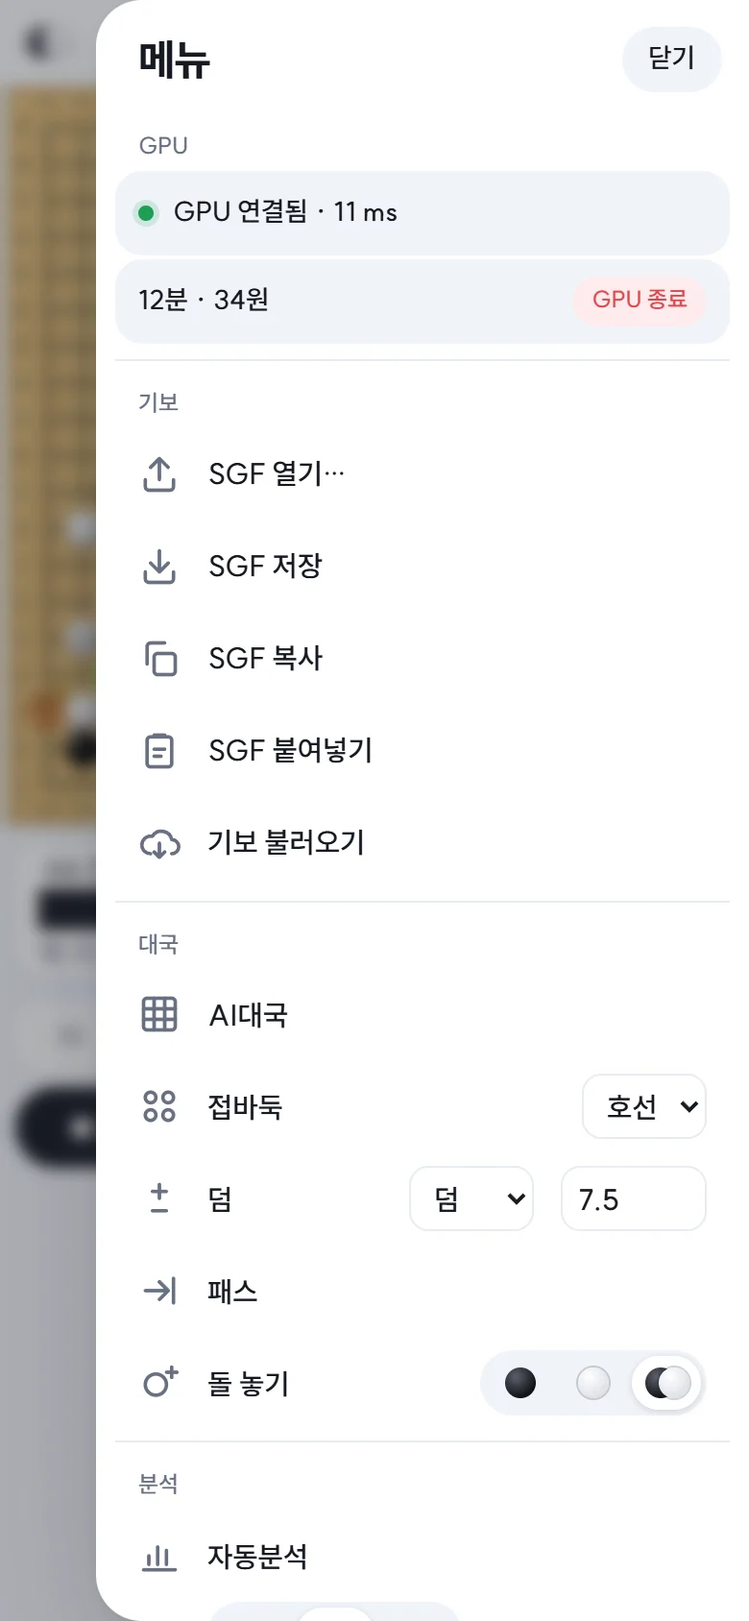
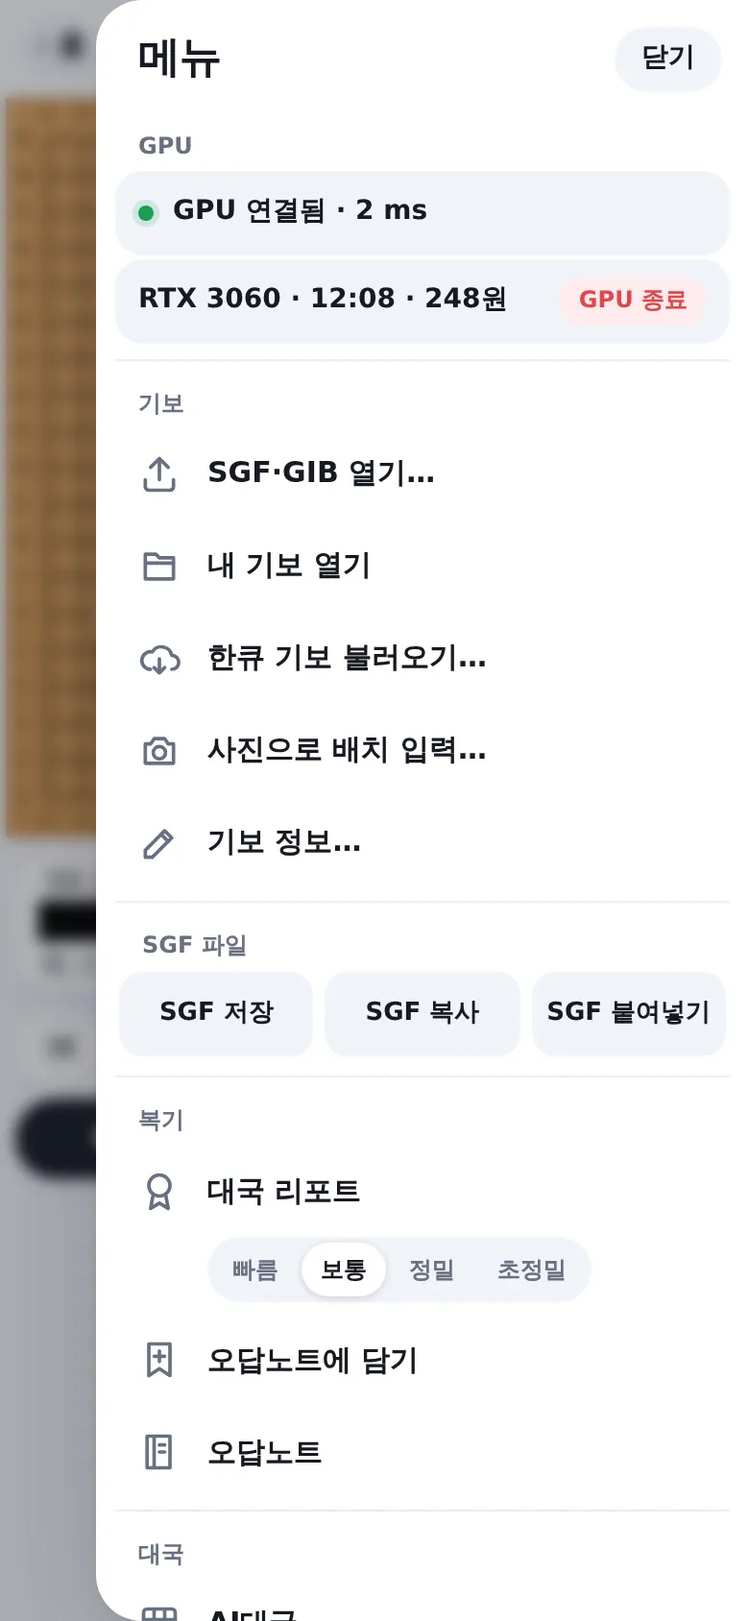
분석 화면 버튼·메뉴 정리 반영 + 가이드 설명·그림 갱신
Claude-Session: https://claude.ai/code/session_01Y47eBxEyYJLCGG7gzNsDrD

diff --git a/analysis.html b/analysis.html
@@ -152,6 +152,39 @@ details.menu .items { position: absolute; left: 0; top: calc(100% + 6px); z-inde
   box-shadow: 0 2px 6px rgba(23, 26, 34, .06), 0 20px 40px -12px rgba(23, 26, 34, .25); }
 details.menu .items button { background: transparent; text-align: left; border-radius: 10px; justify-content: flex-start; }
 details.menu .items button:hover { background: var(--soft); }
+/* 버튼 정리(2026-10-05): 위 바 = 기보 ▾ · 바둑판 ▾ · 보기 ▾ 드롭다운, 아래 바 = 분석 | 이동 | 패스·계가·편집 ▾ */
+details.menu > summary::after { content: ""; width: 7px; height: 7px; margin: -3px 0 0 8px; border: solid currentColor; border-width: 0 1.8px 1.8px 0; transform: rotate(45deg); opacity: .55; }
+details.menu.up > summary::after { transform: rotate(-135deg); margin-top: 4px; }
+details.menu .items { min-width: 220px; }
+details.menu .items hr { border: 0; border-top: 1px solid var(--line); margin: 4px 8px; }
+details.menu .items button { min-height: 38px; padding: 0 12px; font-weight: 600; }
+details.menu .items button[hidden] { display: none; }
+details.menu .items button.pink { color: var(--bad); }
+details.menu .items button.on { background: var(--cyan-soft); color: var(--blue-deep); }
+details.menu .items label.check { display: flex; align-items: center; gap: 10px; min-height: 38px; padding: 0 12px; border-radius: 10px; color: var(--ink); font-weight: 600; cursor: pointer; }
+details.menu .items label.check:hover { background: var(--soft); }
+details.menu .items label.check > select, details.menu .items label.check > input:not([type=checkbox]) { margin-left: auto; }
+details.menu .items label.check > select + input { margin-left: 0; }
+details.menu .items .menu-text, details.menu .items #placeRow > span { display: inline; }
+details.menu .items #placeRow { display: flex; gap: 10px; min-height: 40px; padding: 0 12px; font-weight: 600; }
+details.menu .items #placeRow .stone-seg { margin-left: auto; }
+#boardMenu .items { min-width: 270px; }
+@media (max-width: 1500px) { .menubar .brand span:last-child { display: none; } }   /* 노트북 폭에서도 위 바 한 줄(앱 아이콘은 남김) */
+@media (orientation: landscape) and (max-width: 1300px) { .menubar #vps { display: none; } }   /* 1280 노트북: visits/s는 빼서 한 줄 */
+details.menu.up .items { top: auto; bottom: calc(100% + 6px); left: auto; right: 0; }
+.toolbar .nav { display: inline-flex; align-items: center; gap: 4px; }
+.toolbar button.mv { display: inline-grid; place-items: center; }
+.toolbar button.mv svg { width: 18px; height: 18px; fill: none; stroke: currentColor; stroke-width: 2.2; stroke-linecap: round; stroke-linejoin: round; }
+.toolbar details.menu { display: inline-block; vertical-align: middle; }   /* 넓은 화면의 아래 바는 줄글 흐름(block)이라 details가 새 줄로 내려가던 것 */
+.toolbar details.menu > summary { font-size: 13px; padding: 5px 12px; }
+/* 낮은 가로 화면(폰 가로): 폰 세로처럼 나머지 도구는 ☰ 메뉴 시트로(placeMenuItems) — 두 바가 한 줄씩만 차지해 바둑판이 커짐 */
+@media (orientation: landscape) and (max-height: 520px) {
+  .menubar { flex-wrap: nowrap; padding: 5px 10px; gap: 6px; }
+  #fileMenu, #boardMenu, #viewMenu, #editMenu { display: none; }
+  .toolbar { flex-wrap: nowrap; padding-top: 5px; padding-bottom: calc(5px + env(safe-area-inset-bottom)); }
+  .toolbar #menuOpen { display: inline-flex; align-items: center; margin-left: auto; }
+}
+}
 .toolbar { display: flex; gap: 6px; padding: 8px 8px calc(8px + env(safe-area-inset-bottom)); border-top: 1px solid rgba(23, 26, 34, .06);
   flex-wrap: wrap; align-items: center; }
 .toolbar > * { flex: none; }
@@ -185,6 +218,17 @@ dialog.sheet[open] { display: flex; flex-direction: column; animation: slideIn .
 #menuBody section > ::before { content: ""; flex: none; width: 22px; height: 22px; background: var(--muted);
   -webkit-mask: var(--i) center / 22px no-repeat; mask: var(--i) center / 22px no-repeat; }
 #menuBody section > button.on { background: var(--cyan-soft); color: var(--blue-deep); }
+/* 보기: 켜고 끄는 것들은 두 줄 칩으로(목록이 길어지지 않게) */
+#menuBody section.chips { display: grid; grid-template-columns: 1fr 1fr; gap: 6px; padding: 6px 2px 10px; }
+#menuBody section.chips > h3 { grid-column: 1 / -1; margin-bottom: 0; }
+#menuBody section.chips > label, #menuBody section.chips > button { min-height: 44px; gap: 8px; padding: 0 10px; font-size: 14px; background: var(--soft); border-radius: 12px; }
+#menuBody section.chips > label > input { display: none; }
+#menuBody section.chips > label:has(input:checked), #menuBody section.chips > button.on { background: var(--cyan-soft); color: var(--blue-deep); box-shadow: inset 0 0 0 1.5px rgba(22, 193, 220, .5); }
+#menuBody section.chips > label:has(input:checked)::before, #menuBody section.chips > button.on::before { background: var(--blue); }
+#menuBody section.chips > ::before { width: 18px; height: 18px; }
+#menuBody section.chips.three { grid-template-columns: repeat(3, minmax(0, 1fr)); }
+#menuBody section.chips.three > button { justify-content: center; padding: 0 4px; font-size: 13px; white-space: nowrap; }
+#menuBody section.chips.three > button::before { display: none; }
 #menuBody section > button.on::before { background: var(--blue); }
 #menuBody section > button.pink { color: var(--bad); }
 #menuBody section > button.pink::before { background: var(--bad); }
@@ -469,16 +513,20 @@ button.primary:hover { background: var(--blue-deep); }
     padding: 8px 8px calc(8px + env(safe-area-inset-bottom)); border-top: 0; background: transparent; backdrop-filter: none; -webkit-backdrop-filter: none; }
   .toolbar button, .toolbar input { min-height: 42px; padding: 2px; width: 100%; }
   .toolbar button:not(.on):not(.pink):not(#analyze) { background: var(--panel); box-shadow: 0 1px 2px rgba(23, 26, 34, .06); }
-  .toolbar .sep, #fileMenu { display: none; }
+  .toolbar .sep, #fileMenu, #boardMenu, #viewMenu, #editMenu { display: none; }
+  .toolbar .nav { display: contents; }
   /* rows: moves | analysis, move number, menu (everything else is in the menu sheet) */
   #clocks { order: 0; grid-column: 1 / -1; justify-content: center; }
   #scoreBox { top: auto; left: 12px; right: 12px; width: auto; bottom: calc(12px + env(safe-area-inset-bottom)); }
-  #first { order: 1; } #back10 { order: 2; } #back { order: 3; } #fwd { order: 4; } #fwd10 { order: 5; } #last { order: 6; }
+  #first { order: 1; } #back10 { order: 2; }
   /* 12 columns: six move buttons of 2; then 분석 4, move number 2, 수순 이동 3 (its label no longer overflows), 메뉴 3 */
-  #first, #back10, #back, #fwd, #fwd10, #last { grid-column: span 2; }
-  #analyze { grid-column: span 4; } #moveNo { grid-column: span 2; width: 100%; }   /* its landscape 62px was wider than the cell: it ran under 수순 이동 */ #goMove, #menuOpen { grid-column: span 3; }
-  #analyze { order: 7; } #moveNo { order: 8; } #goMove { order: 9; }
-  #menuOpen { display: block; order: 10; }
+  /* 14 columns: 처음 · 10수 · 이전 · 수 번호 · 다음 · 10수 · 끝 (2씩), then 분석 6 · 자동분석 4 · 메뉴 4. 수순 이동 버튼은 없앰(수 번호에서 Enter) */
+  .toolbar { grid-template-columns: repeat(14, minmax(0, 1fr)); }
+  #first, #back10, #back, #moveNo, #fwd, #fwd10, #last { grid-column: span 2; }
+  #moveNo { width: 100%; text-align: center; }
+  #back { order: 3; } #moveNo { order: 4; } #fwd { order: 5; } #fwd10 { order: 6; } #last { order: 7; }
+  #analyze { grid-column: span 6; order: 8; } #autoAnalyze { grid-column: span 4; order: 9; }
+  #menuOpen { display: block; grid-column: span 4; order: 10; }
   .toolbar .error { order: 11; grid-column: 1 / -1; }
   #quizBar { grid-column: 1 / -1; }
   #quizBar button { width: auto; padding: 2px 16px; }
@@ -548,40 +596,56 @@ button.primary:hover { background: var(--blue-deep); }
   <a class="home-back" id="homeBack" href="./" hidden title="처음 화면으로">‹ 홈</a>
   <span class="brand"><span class="mark"></span><span>KataGo Cloud</span></span>
   <details class="menu" id="fileMenu">
-    <summary>파일</summary>
+    <summary>기보</summary>
     <div class="items">
       <button id="openSgf">SGF·GIB 열기…</button>
+      <button id="openMine" hidden>내 기보 열기</button>
+      <button id="kifuOpen">한큐 기보 불러오기…</button>
+      <button id="photoKifu">사진으로 배치 입력…</button>
+      <hr>
       <button id="saveSgf">SGF 저장</button>
       <button id="copySgf">SGF 복사</button>
       <button id="pasteSgf">SGF 붙여넣기</button>
-      <button id="photoKifu">사진으로 배치 입력…</button>
       <button id="editInfo">기보 정보…</button>
-      <button id="openMine" hidden>내 기보 열기</button>
+      <hr>
       <button id="addNote" hidden>오답노트에 담기</button>
       <button id="openNotes" hidden>오답노트</button>
+      <hr>
       <button id="aboutOss">오픈소스 고지</button>
     </div>
   </details>
-  <button id="saveMine" hidden title="이 기보를 분석값과 함께 내 계정에 저장">내 기보 저장</button>
+  <details class="menu" id="boardMenu">
+    <summary>바둑판</summary>
+    <div class="items">
+      <label class="check" id="sizeLabel"><span class="menu-text">바둑판</span><select id="boardSize" aria-label="바둑판 크기"><option value="19">19줄</option><option value="13">13줄</option><option value="9">9줄</option></select></label>
+      <label class="check" id="handicapLabel">접바둑 <select id="handicap"><option value="0">호선</option><option value="1">정선</option><option value="2">2점</option><option value="3">3점</option><option value="4">4점</option><option value="5">5점</option><option value="6">6점</option><option value="7">7점</option><option value="8">8점</option><option value="9">9점</option></select></label>
+      <label class="check" id="komiLabel"><span class="menu-text">덤</span><select id="komiSign" aria-label="덤 방향"><option value="1">덤</option><option value="-1">역덤</option></select> <input type="number" id="komi" value="6.5" step="0.5" min="0" max="150" aria-label="덤 집 수"></label>
+      <div id="placeRow"><span>돌 놓기</span>
+        <div class="stone-seg" id="placeSeg" role="group" aria-label="놓을 돌">
+          <button data-c="B" title="흑돌만 놓기" aria-pressed="false"><i class="b"></i></button>
+          <button data-c="W" title="백돌만 놓기" aria-pressed="false"><i class="w"></i></button>
+          <button data-c="" title="흑백 번갈아 놓기" aria-pressed="true" class="on"><i class="bw"></i></button>
+        </div>
+  </div>
+    </div>
+  </details>
+  <details class="menu" id="viewMenu">
+    <summary>보기</summary>
+    <div class="items">
+      <label class="check" id="candsLabel"><input type="checkbox" id="showCands" checked> 후보수보기</label>
+      <label class="check" id="ownerLabel"><input type="checkbox" id="showOwner"> 형세</label>
+      <label class="check" id="hideLabel" title="승률·후보수·그래프·형세를 모두 가립니다. 분석값은 지워지지 않습니다"><input type="checkbox" id="hideEval"> 승률 가리기</label>
+      <label class="check" id="barLabel"><input type="checkbox" id="showBar" checked> 승률 막대</label>
+      <label class="check" id="graphLabel"><input type="checkbox" id="showGraph"> 승률 그래프</label>
+      <hr>
+      <button id="nums">수순</button>
+      <button id="coords">좌표</button>
+    </div>
+  </details>
   <button id="newGame">AI대국</button>
-  <button id="kifuOpen">기보 불러오기</button>
   <button id="strengthOpen">대국 리포트</button>
   <div class="lvl" id="strengthLevel" role="group" aria-label="대국 리포트 세기"><button data-l="fast">빠름</button><button data-l="normal">보통</button><button data-l="precise">정밀</button><button data-l="ultra" title="한 수 5000 visits — 정밀보다 약 5배 오래 걸립니다">초정밀</button></div>
-  <label class="check" id="sizeLabel"><span class="menu-text">바둑판</span><select id="boardSize" aria-label="바둑판 크기"><option value="19">19줄</option><option value="13">13줄</option><option value="9">9줄</option></select></label>
-  <label class="check" id="handicapLabel">접바둑 <select id="handicap"><option value="0">호선</option><option value="1">정선</option><option value="2">2점</option><option value="3">3점</option><option value="4">4점</option><option value="5">5점</option><option value="6">6점</option><option value="7">7점</option><option value="8">8점</option><option value="9">9점</option></select></label>
-  <label class="check" id="komiLabel"><span class="menu-text">덤</span><select id="komiSign" aria-label="덤 방향"><option value="1">덤</option><option value="-1">역덤</option></select> <input type="number" id="komi" value="6.5" step="0.5" min="0" max="150" aria-label="덤 집 수"></label>
-  <label class="check" id="ownerLabel"><input type="checkbox" id="showOwner"> 형세</label>
-  <label class="check" id="candsLabel"><input type="checkbox" id="showCands" checked> 후보수보기</label>
-  <label class="check" id="hideLabel" title="승률·후보수·그래프·형세를 모두 가립니다. 분석값은 지워지지 않습니다"><input type="checkbox" id="hideEval"> 승률 가리기</label>
-  <div id="placeRow"><span>돌 놓기</span>
-    <div class="stone-seg" id="placeSeg" role="group" aria-label="놓을 돌">
-      <button data-c="B" title="흑돌만 놓기" aria-pressed="false"><i class="b"></i></button>
-      <button data-c="W" title="백돌만 놓기" aria-pressed="false"><i class="w"></i></button>
-      <button data-c="" title="흑백 번갈아 놓기" aria-pressed="true" class="on"><i class="bw"></i></button>
-    </div>
-  </div>
-  <label class="check" id="barLabel"><input type="checkbox" id="showBar" checked> 승률 막대</label>
-  <label class="check" id="graphLabel"><input type="checkbox" id="showGraph"> 승률 그래프</label>
+  <button id="saveMine" hidden title="이 기보를 분석값과 함께 내 계정에 저장">내 기보 저장</button>
   <span class="spacer"></span>
   <span class="status" id="vps"></span>
   <span class="status" id="gpuMeter" hidden><span id="gpuUse"></span><button id="gpuStop" class="pink">GPU 종료</button></span>
@@ -788,23 +852,28 @@ button.primary:hover { background: var(--blue-deep); }
   <button id="autoAnalyze">자동분석</button>
   <div class="lvl" id="autoLevel" role="group" aria-label="자동분석 세기"><button data-l="fast">빠름</button><button data-l="normal">보통</button><button data-l="precise">정밀</button><button data-l="ultra" title="한 수 5000 visits — 정밀보다 약 5배 오래 걸립니다">초정밀</button></div>
   <span class="sep"></span>
-  <button id="first" title="처음 (Home)">|&lt;</button>
-  <button id="back10" title="10수 뒤로">&lt;&lt;</button>
-  <button id="back" title="이전 (←)">&lt;</button>
-  <input type="text" id="moveNo" inputmode="numeric" aria-label="수 번호">
-  <button id="goMove">수순 이동</button>
-  <button id="fwd" title="다음 (→)">&gt;</button>
-  <button id="fwd10" title="10수 앞으로">&gt;&gt;</button>
-  <button id="last" title="끝 (End)">&gt;|</button>
+  <span class="nav">
+  <button id="first" class="mv" title="처음 (Home)" aria-label="처음"><svg viewBox="0 0 24 24"><path d="M6 5v14M18 6l-8 6 8 6z"/></svg></button>
+  <button id="back10" class="mv" title="10수 뒤로" aria-label="10수 뒤로"><svg viewBox="0 0 24 24"><path d="M12 6l-6 6 6 6M19 6l-6 6 6 6"/></svg></button>
+  <button id="back" class="mv" title="이전 (←)" aria-label="이전"><svg viewBox="0 0 24 24"><path d="M15 6l-6 6 6 6"/></svg></button>
+  <input type="text" id="moveNo" inputmode="numeric" enterkeyhint="go" aria-label="수 번호 (입력하고 Enter)" title="수 번호를 넣고 Enter">
+  <button id="goMove" hidden>수순 이동</button>
+  <button id="fwd" class="mv" title="다음 (→)" aria-label="다음"><svg viewBox="0 0 24 24"><path d="M9 6l6 6-6 6"/></svg></button>
+  <button id="fwd10" class="mv" title="10수 앞으로" aria-label="10수 앞으로"><svg viewBox="0 0 24 24"><path d="M12 6l6 6-6 6M5 6l6 6-6 6"/></svg></button>
+  <button id="last" class="mv" title="끝 (End)" aria-label="끝"><svg viewBox="0 0 24 24"><path d="M18 5v14M6 6l8 6-8 6z"/></svg></button>
+  </span>
   <span class="sep"></span>
   <button id="pass">패스</button>
   <button id="gameScore" title="지금 국면을 셉니다: AI가 죽은 돌을 판정하고, 돌을 눌러 고칠 수 있습니다">계가</button>
   <button id="gameResign" class="pink" hidden title="돌을 던지고 대국을 끝냅니다">기권</button>
-  <button id="promote">주 변화로 지정</button>
-  <button id="nums">수순</button>
-  <button id="coords">좌표</button>
-  <button id="resetBoard" class="pink">바둑판초기화</button>
-  <button id="deleteNode" class="pink">지우기</button>
+  <details class="menu up" id="editMenu">
+    <summary>편집</summary>
+    <div class="items">
+      <button id="promote">주 변화로 지정</button>
+      <button id="deleteNode" class="pink">이 수부터 지우기</button>
+      <button id="resetBoard" class="pink">바둑판 초기화</button>
+    </div>
+  </details>
   <span class="error" id="err"></span>
   <button id="menuOpen" aria-haspopup="dialog">☰ 메뉴</button>
 </footer>
@@ -1171,8 +1240,8 @@ function setLevel(l) {
   if ($("saveDlg").open) saveDoChanged();   // the save window's 먼저 자동분석 counts the moves for this level
 }
 document.querySelectorAll(".lvl").forEach(g => g.addEventListener("click", ev => { const b = ev.target.closest("button"); if (b) setLevel(b.dataset.l); }));
-// Landscape: pressing 자동분석 / 대국 리포트 opens a small list of levels; picking one sets it and starts.
-const isPortrait = () => matchMedia("(orientation: portrait)").matches;
+// Pressing 자동분석 (and 대국 리포트 outside the menu sheet) opens a small list of levels; picking one sets it and starts.
+const isPortrait = () => matchMedia("(orientation: portrait), (max-height: 520px)").matches;   // = 메뉴 시트를 쓰는 화면
 let popFor = null, popRun = null;
 function levelPop(btn, title, run) {
   const pop = $("levelPop");
@@ -1252,7 +1321,6 @@ $("analyze").onclick = () => { if (quiz) return; setAnalyzing(!analyzing); reque
 const runAuto = () => startAuto(mainLine().every(analysed));   // everything analysed at this level = 재분석
 $("autoAnalyze").onclick = () => {
   if (autoId) return stopAuto();
-  if (isPortrait()) return runAuto();
   levelPop($("autoAnalyze"), mainLine().every(analysed) ? "재분석 세기" : "자동분석 세기", runAuto);
 };
 $("first").onclick = () => goTo(root);
@@ -1262,7 +1330,8 @@ $("fwd").onclick = () => step(1);
 $("fwd10").onclick = () => step(10);
 $("last").onclick = toEnd;
 $("goMove").onclick = () => { const t = parseInt($("moveNo").value, 10); if (!Number.isFinite(t)) return; const l = lineThrough(cur); goTo(l[Math.max(0, Math.min(l.length - 1, t))]); };
-$("moveNo").addEventListener("keydown", e => { if (e.key === "Enter") $("goMove").click(); });
+$("moveNo").addEventListener("keydown", e => { if (e.key === "Enter") { $("goMove").click(); e.target.blur(); } });
+$("moveNo").addEventListener("change", () => $("goMove").click());
 $("pass").onclick = () => goTo(play(cur, cur.toPlay, null));
 // ------------------------------------------------------------------ AI대국: a game against the AI, or between two AIs
 // The AI plays the blue spot (its best candidate from the live analysis) once its side has thought long enough —
@@ -1901,8 +1970,12 @@ async function readSgfFile(file) {
   const buf = await file.arrayBuffer();
   try { return new TextDecoder("utf-8", {fatal: true}).decode(buf); } catch { return new TextDecoder("euc-kr").decode(buf); }
 }
-document.addEventListener("pointerdown", ev => { if ($("fileMenu").open && !$("fileMenu").contains(ev.target)) $("fileMenu").open = false; });
-document.addEventListener("keydown", ev => { if (ev.key === "Escape") $("fileMenu").open = false; });
+// 드롭다운(기보 · 바둑판 · 보기 · 편집): 하나만 열림, 바깥을 누르거나 Esc면 닫힘, 일을 하는 버튼을 누르면 닫힘(켜고 끄는 것은 열린 채)
+const dropMenus = [...document.querySelectorAll("details.menu")];
+dropMenus.forEach(d => d.addEventListener("toggle", () => { if (d.open) dropMenus.forEach(o => { if (o !== d) o.open = false; }); }));
+document.addEventListener("pointerdown", ev => dropMenus.forEach(d => { if (d.open && !d.contains(ev.target)) d.open = false; }));
+document.addEventListener("keydown", ev => { if (ev.key === "Escape") dropMenus.forEach(d => d.open = false); });
+dropMenus.forEach(d => d.querySelector(".items").addEventListener("click", ev => { const b = ev.target.closest("button"); if (b && b.id !== "nums" && b.id !== "coords" && !b.closest(".lvl, .stone-seg")) d.open = false; }));
 $("openSgf").onclick = () => { $("fileMenu").open = false; $("fileInput").click(); };
 async function openSgfFile(f) { try { loadSgf(await readSgfFile(f)); } catch (err) { $("err").textContent = "SGF 오류: " + err.message; } }
 $("fileInput").onchange = async e => { const f = e.target.files[0]; if (!f) return; await openSgfFile(f); e.target.value = ""; };
@@ -2343,7 +2416,7 @@ function mineDefaultTitle() {
   if (i.DT) return ("기보 " + i.DT).slice(0, 100);   // no names: the game's date (as 오답노트 titles it)
   return "기보 " + new Date().toLocaleString("ko-KR", {dateStyle: "short", timeStyle: "short"});
 }
-function closeMenus() { $("fileMenu").open = false; if ($("menuDlg").open) $("menuDlg").close(); }
+function closeMenus() { document.querySelectorAll("details.menu").forEach(d => d.open = false); if ($("menuDlg").open) $("menuDlg").close(); }
 $("saveMine").onclick = async () => {
   closeMenus();
   if (!await mineClient()) { $("err").textContent = "로그인한 사이트에서만 저장할 수 있습니다"; return; }
@@ -3777,18 +3850,20 @@ $("candRows").addEventListener("dblclick", ev => { const tr = ev.target.closest(
 // the other tools move into the sheet. The same elements are moved (not copied), so their handlers stay as they are,
 // and they go back to the bars in landscape.
 const MENU = [["GPU", ["connStatus", "gpuMeter"]],
-              ["기보", ["openSgf", "saveSgf", "copySgf", "pasteSgf", "photoKifu", "editInfo", "kifuOpen", "openMine", "addNote", "openNotes"]],
-              ["대국", ["newGame", "sizeLabel", "handicapLabel", "komiLabel", "pass", "gameScore", "gameResign", "placeRow"]],
-              ["분석", ["autoAnalyze", "autoLevel", "strengthOpen", "strengthLevel"]],
-              ["보기", ["barLabel", "graphLabel", "ownerLabel", "candsLabel", "hideLabel", "nums", "coords"]],
+              ["기보", ["openSgf", "openMine", "kifuOpen", "photoKifu", "editInfo"]],
+              ["SGF 파일", ["saveSgf", "copySgf", "pasteSgf"]],
+              ["복기", ["strengthOpen", "strengthLevel", "addNote", "openNotes"]],
+              ["대국", ["newGame", "pass", "gameScore", "gameResign"]],
+              ["바둑판", ["sizeLabel", "handicapLabel", "komiLabel", "placeRow"]],
+              ["보기", ["candsLabel", "ownerLabel", "hideLabel", "barLabel", "graphLabel", "nums", "coords"]],
               ["편집", ["promote", "deleteNode", "resetBoard"]],
               ["정보", ["aboutOss"]]];
 const menuHomes = new Map(), menuSections = MENU.map(([title]) => {
-  const sec = document.createElement("section"); sec.innerHTML = `<h3>${title}</h3>`; $("menuBody").append(sec); return sec;
+  const sec = document.createElement("section"); sec.innerHTML = `<h3>${title}</h3>`; if (title === "보기" || title === "SGF 파일") sec.className = title === "보기" ? "chips" : "chips three"; $("menuBody").append(sec); return sec;
 });
 let menuPortrait = null;
 function placeMenuItems() {
-  const portrait = matchMedia("(orientation: portrait)").matches;
+  const portrait = isPortrait();   // 폰 가로도 메뉴 시트를 씀
   if (portrait === menuPortrait) return;
   menuPortrait = portrait;
   if (!portrait && $("menuDlg").open) $("menuDlg").close();

diff --git a/guide.html b/guide.html
@@ -289,22 +289,22 @@ details.more .table-wrap { margin: 4px 0 8px; }
       <figure class="fig"><img src="guide/analysis-demo.webp" width="1120" height="680" alt="움직이는 화면: 수를 넘기며 후보수가 바뀌고, 후보수에 마우스를 올려 참고도를 보는 모습" loading="lazy"><figcaption>움직이는 예시 — 수 넘기기 → 1순위 후보 참고도 → 2순위 후보 참고도</figcaption></figure>
       <figure class="fig">
         <a class="shot-img" href="guide/analysis-landscape.webp" target="_blank" rel="noopener" title="크게 보기">
-          <img src="guide/analysis-landscape.webp" width="2040" height="1230" alt="분석 화면(가로)의 각 부분에 번호를 붙인 그림" loading="lazy">
-          <span class="pin" style="left:11.6%;top:3%">1</span>
-          <span class="pin" style="left:1.4%;top:8.4%">2</span>
-          <span class="pin" style="left:1.4%;top:19.3%">3</span>
-          <span class="pin" style="left:1.4%;top:29%">4</span>
-          <span class="pin" style="left:1.4%;top:63.8%">5</span>
-          <span class="pin" style="left:26.2%;top:10.2%">6</span>
-          <span class="pin" style="left:76%;top:8.4%">7</span>
-          <span class="pin" style="left:76%;top:31.3%">8</span>
-          <span class="pin" style="left:76%;top:51.2%">9</span>
-          <span class="pin" style="left:1.6%;top:93.4%">10</span>
+          <img src="guide/analysis-landscape.webp" width="2560" height="1544" alt="분석 화면(가로)의 각 부분에 번호를 붙인 그림" loading="lazy">
+          <span class="pin" style="left:6.8%;top:3.2%">1</span>
+          <span class="pin" style="left:2.0%;top:10.2%">2</span>
+          <span class="pin" style="left:2.0%;top:21.9%">3</span>
+          <span class="pin" style="left:2.0%;top:32.3%">4</span>
+          <span class="pin" style="left:2.0%;top:64.4%">5</span>
+          <span class="pin" style="left:26.6%;top:12%">6</span>
+          <span class="pin" style="left:76.6%;top:10.2%">7</span>
+          <span class="pin" style="left:76.6%;top:33.6%">8</span>
+          <span class="pin" style="left:76.6%;top:53.5%">9</span>
+          <span class="pin" style="left:1.2%;top:96.4%">10</span>
         </a>
         <figcaption>PC 가로 화면. 누르면 크게 볼 수 있습니다.</figcaption>
       </figure>
       <ol class="legend">
-        <li><b>위쪽 막대</b> — 파일·저장·AI대국·기보 불러오기·대국 리포트 등</li>
+        <li><b>위쪽 막대</b> — 기보 ▾ · 바둑판 ▾ · 보기 ▾ 메뉴, AI대국, 대국 리포트, 내 기보 저장</li>
         <li><b>사석·덤</b> — 따낸 돌, 덤, 지금 차례</li>
         <li><b>승률 칸</b> — 흑·백 승률, 리드(몇 집 앞섬)</li>
         <li><b>승률 그래프</b> — 누르면 그 수로 이동</li>
@@ -313,7 +313,7 @@ details.more .table-wrap { margin: 4px 0 8px; }
         <li><b>변화도</b> — 기보의 갈래</li>
         <li><b>후보표</b> — 승률·비짓·비중·리드</li>
         <li><b>미리보기 판</b> — 고른 후보의 수순</li>
-        <li><b>아래쪽 막대</b> — 분석 시작, 수순 이동, 편집</li>
+        <li><b>아래쪽 막대</b> — 분석 · 수 이동 · 패스 · 계가 · 편집 ▾</li>
       </ol>
 
       <h3>후보수 읽는 법</h3>
@@ -337,19 +337,20 @@ details.more .table-wrap { margin: 4px 0 8px; }
         <div>
           <p>바둑판을 크게 보여 주고, 나머지 기능은 오른쪽 아래 <span class="chip">☰ 메뉴</span>에 모았습니다.</p>
           <ul>
-            <li>메뉴는 <b>GPU · 기보 · 대국 · 분석 · 보기 · 편집</b> 여섯 칸입니다.</li>
+            <li>바둑판 아래에는 수 이동 버튼과 <span class="chip">분석</span> · <span class="chip">자동분석</span> · <span class="chip">☰ 메뉴</span>만 둡니다. 가로로 돌려도 같고, 바둑판이 화면 높이만큼 커집니다.</li>
+            <li>메뉴는 <b>GPU · 기보 · SGF 파일 · 복기 · 대국 · 바둑판 · 보기 · 편집</b> 칸입니다.</li>
             <li>맨 위 <b>GPU</b> 칸: 연결 상태, 쓴 시간·요금, <span class="chip pink">GPU 종료</span>.</li>
-            <li><b>보기</b> 칸에서 승률 막대·그래프를 켜고 끕니다.</li>
+            <li><b>보기</b> 칸의 버튼(후보수·형세·승률 가리기·승률 막대·승률 그래프·수순·좌표)은 켜진 것이 파랗게 보입니다.</li>
           </ul>
         </div>
         <figure class="fig phone"><img src="guide/analysis-portrait.webp" width="780" height="1244" alt="휴대폰 분석 화면" loading="lazy"></figure>
       </div>
       <details class="more"><summary>자세히: 메뉴 화면 그림, 각 칸의 버튼</summary><div>
-        <figure class="fig phone"><img src="guide/analysis-menu.webp" width="780" height="1688" alt="휴대폰 메뉴: GPU, 기보, 대국 칸" loading="lazy"><figcaption>☰ 메뉴(GPU 칸의 시간·요금은 예시)</figcaption></figure>
+        <figure class="fig phone"><img src="guide/analysis-menu.webp" width="780" height="1688" alt="휴대폰 메뉴: GPU, 기보, SGF 파일 칸" loading="lazy"><figcaption>☰ 메뉴(GPU 칸의 시간·요금은 예시)</figcaption></figure>
         <ul>
-          <li><b>위쪽 막대(PC)</b>: 파일(SGF·내 기보·오답노트), 내 기보 저장, AI대국, 기보 불러오기, 대국 리포트, 바둑판 크기, 접바둑·덤, 형세·후보수보기·승률 가리기, 돌 놓기(흑·백·번갈아). 오른쪽 끝은 초당 탐색 수(visits/s), GPU 시간·요금·종료, 연결 상태(초록 점 = 연결됨, 숫자 = 응답 시간).</li>
-          <li><b>아래쪽 막대(PC)</b>: 분석 시작/정지, 자동분석, 수순 이동, 패스, 주 변화로 지정, 수순·좌표, 바둑판초기화, 지우기.</li>
-          <li>폰 메뉴에서 수순·좌표·세기·돌 놓기 버튼은 눌러도 메뉴가 닫히지 않아 여러 번 바꿔 볼 수 있습니다.</li>
+          <li><b>위쪽 막대(PC)</b>: <b>기보 ▾</b>(SGF·GIB 열기, 내 기보 열기, 한큐 기보 불러오기, 사진으로 배치 입력, SGF 저장·복사·붙여넣기, 기보 정보, 오답노트에 담기, 오답노트), <b>바둑판 ▾</b>(줄 수, 접바둑, 덤, 돌 놓기), <b>보기 ▾</b>(후보수보기, 형세, 승률 가리기, 수순, 좌표), AI대국, 대국 리포트, 내 기보 저장. 오른쪽 끝은 초당 탐색 수(visits/s), GPU 시간·요금·종료, 연결 상태(초록 점 = 연결됨, 숫자 = 응답 시간).</li>
+          <li><b>아래쪽 막대(PC)</b>: 분석 시작/정지, 자동분석, 처음·10수·이전·수 번호·다음·10수·끝, 패스, 계가, <b>편집 ▾</b>(주 변화로 지정, 이 수부터 지우기, 바둑판 초기화).</li>
+          <li>보기 메뉴와 폰 메뉴에서 켜고 끄는 버튼(수순·좌표·형세 등)과 세기·돌 놓기 버튼은 눌러도 메뉴가 닫히지 않아 여러 번 바꿔 볼 수 있습니다.</li>
           <li>승률과 리드는 표시하는 순간 <b>차례인 쪽</b> 기준입니다. 왼쪽 승률 칸과 그래프는 흑·백 각각의 승률입니다.</li>
         </ul>
       </div></details>
@@ -366,9 +367,9 @@ details.more .table-wrap { margin: 4px 0 8px; }
           <tr><td>참고도 보기</td><td>후보수 위에 올리기</td><td>길게 누르기(떼도 남음, 다른 곳 누르면 사라짐)</td></tr>
           <tr><td>다음 / 이전 수</td><td><kbd>→</kbd> <kbd>←</kbd> · 휠 아래/위</td><td>두 손가락 아래로 / 위로</td></tr>
           <tr><td>한 수 뒤로</td><td>바둑판 오른쪽 클릭</td><td>세 손가락 짧게 톡</td></tr>
-          <tr><td>처음 / 끝</td><td><kbd>Home</kbd> <kbd>End</kbd></td><td><span class="chip">|&lt;</span> <span class="chip">&gt;|</span> 버튼</td></tr>
+          <tr><td>처음 / 끝</td><td><kbd>Home</kbd> <kbd>End</kbd></td><td><span class="chip">⏮</span> <span class="chip">⏭</span> 버튼</td></tr>
           <tr><td>분석 시작 / 멈춤</td><td><kbd>Space</kbd></td><td><span class="chip">▶ 분석 시작</span></td></tr>
-          <tr><td>원하는 수로</td><td colspan="2">승률 그래프·변화도를 누르거나, 수 번호를 적고 <span class="chip">수순 이동</span></td></tr>
+          <tr><td>원하는 수로</td><td colspan="2">승률 그래프·변화도를 누르거나, 아래 막대의 수 번호 칸에 번호를 적고 Enter(폰은 입력을 마치면 바로 이동)</td></tr>
         </tbody>
       </table></div>
       <details class="more"><summary>자세히: 노트북 터치패드, 후보표</summary><div>
@@ -408,9 +409,9 @@ details.more .table-wrap { margin: 4px 0 8px; }
           <tr><td>바둑판</td><td><b>19줄 · 13줄 · 9줄</b>. 고르면 그 크기의 빈 판으로 새로 시작합니다.</td></tr>
           <tr><td>접바둑 · 덤</td><td>호선 · 정선 · 2~9점(9줄은 5점까지). 덤 또는 역덤, 기본 6.5집.</td></tr>
           <tr><td>● ○ ◐</td><td>흑만 / 백만 / 번갈아 놓기(배치·사활 만들 때)</td></tr>
-          <tr><td>패스 · 지우기</td><td>차례 넘기기 · 지금 수와 그 뒤를 지우기</td></tr>
-          <tr><td>주 변화로 지정</td><td>보고 있는 갈래를 본선으로(자동분석·리포트는 본선을 따라감)</td></tr>
-          <tr><td>바둑판초기화</td><td>빈 호선 판(덤 6.5)으로</td></tr>
+          <tr><td>패스 · 이 수부터 지우기</td><td>차례 넘기기 · 지금 수와 그 뒤를 지우기(편집 ▾)</td></tr>
+          <tr><td>주 변화로 지정</td><td>보고 있는 갈래를 본선으로(자동분석·리포트는 본선을 따라감, 편집 ▾)</td></tr>
+          <tr><td>바둑판 초기화</td><td>빈 호선 판(덤 6.5)으로</td></tr>
         </tbody>
       </table></div>
       <details class="more"><summary>자세히: 판 크기, PDA(접바둑 보정)</summary><div>
@@ -507,8 +508,8 @@ details.more .table-wrap { margin: 4px 0 8px; }
           <li><b>＋ 기보 추가</b>: 빈 판과 <b>기보 정보</b> 창(바둑판 크기, 흑·백 이름, 날짜, 결과)이 열립니다. 판을 눌러 두고 <b>내 기보 저장</b>. GPU를 켜지 않아 요금이 들지 않습니다. 잘못 둔 수는 그 수에서 <b>지우기</b>.</li>
           <li><b>공유</b>: 목록의 <b>공유</b> → <span class="chip">링크 만들기</span> → 복사(폰은 보내기…). 받은 사람은 로그인·GPU 없이 기보와 분석을 봅니다. <span class="chip pink">공유 끄기</span>하면 링크가 막힙니다. 대국자 이름도 보이니 주의하세요.</li>
           <li><b>다시 저장</b>: 내 기보에서 연 기보는 <b>덮어쓰기</b> / <b>새로 저장</b>을 고릅니다. <b>삭제</b>는 되돌릴 수 없습니다.</li>
-          <li><b>SGF</b>: 파일 메뉴에서 SGF 열기·저장·복사·붙여넣기. 저장한 SGF에는 분석값도 들어 있어 다시 열면 그래프가 보입니다. PC에서는 SGF 파일을 분석 화면에 끌어다 놓아도 열립니다. 타이젬 기보(GIB)도 같은 방법으로 열 수 있습니다.</li>
-          <li><b>사진으로 배치 입력</b>: 파일 메뉴(휴대폰은 메뉴 → 기보)의 <span class="chip">사진으로 배치 입력…</span>으로 실제 바둑판을 찍은 사진이나 바둑 앱 화면 캡처를 고르면, 판의 위치와 줄 수(19·13·9줄)를 자동으로 찾고 돌을 읽어 반듯하게 편 사진 위에 보여 줍니다(네모 = 읽은 돌). 틀린 곳은 눌러서 빈 곳 → 흑 → 백으로 고치고, 격자가 어긋났으면 <span class="chip">모서리 다시</span>로 네 귀를 끌어 맞춥니다. 둘 차례를 고르고 <span class="chip">이 배치로 열기</span>를 누르면 그 배치에서 분석을 시작할 수 있습니다. 사진은 서버로 보내지 않고 이 화면 안에서만 읽습니다. 수순은 알 수 없어 배치만 들어가고, 판 일부만 찍힌 사진이나 화면을 비스듬히 찍은 사진은 직접 맞춰야 할 수 있습니다.</li>
+          <li><b>SGF</b>: 기보 메뉴(휴대폰은 메뉴 → 기보·SGF 파일)에서 SGF 열기·저장·복사·붙여넣기. 저장한 SGF에는 분석값도 들어 있어 다시 열면 그래프가 보입니다. PC에서는 SGF 파일을 분석 화면에 끌어다 놓아도 열립니다. 타이젬 기보(GIB)도 같은 방법으로 열 수 있습니다.</li>
+          <li><b>사진으로 배치 입력</b>: 기보 메뉴(휴대폰은 메뉴 → 기보)의 <span class="chip">사진으로 배치 입력…</span>으로 실제 바둑판을 찍은 사진이나 바둑 앱 화면 캡처를 고르면, 판의 위치와 줄 수(19·13·9줄)를 자동으로 찾고 돌을 읽어 반듯하게 편 사진 위에 보여 줍니다(네모 = 읽은 돌). 틀린 곳은 눌러서 빈 곳 → 흑 → 백으로 고치고, 격자가 어긋났으면 <span class="chip">모서리 다시</span>로 네 귀를 끌어 맞춥니다. 둘 차례를 고르고 <span class="chip">이 배치로 열기</span>를 누르면 그 배치에서 분석을 시작할 수 있습니다. 사진은 서버로 보내지 않고 이 화면 안에서만 읽습니다. 수순은 알 수 없어 배치만 들어가고, 판 일부만 찍힌 사진이나 화면을 비스듬히 찍은 사진은 직접 맞춰야 할 수 있습니다.</li>
           <li><b>기보 불러오기(한큐바둑)</b>: 닉네임을 검색하면 최근 대국 약 100판이 나오고, 누르면 바둑판에 열립니다. 타이젬 개인 기보는 타이젬 프로그램에서 SGF로 저장한 뒤 여세요.</li>
           <li>기보를 누르면 대국자 이름·결과를 판 옆 대국자 칸이나 파일 → <b>기보 정보…</b>에서 고칠 수 있습니다.</li>
         </ul>
@@ -550,7 +551,7 @@ details.more .table-wrap { margin: 4px 0 8px; }
       </div>
       <h3>담기</h3>
       <ul>
-        <li>기보를 자동분석한 뒤 <b>내 기보 저장</b>에서 <b>오답노트 만들기</b>(또는 파일 메뉴 <b>오답노트에 담기</b>).</li>
+        <li>기보를 자동분석한 뒤 <b>내 기보 저장</b>에서 <b>오답노트 만들기</b>(또는 기보 메뉴 <b>오답노트에 담기</b>, 휴대폰은 메뉴 → 복기).</li>
         <li>누구의 실수인지와 기준(작은 실수까지 2집·5% / 실수 4집·10% / 큰 실수만 8집·20%)을 고르고, 담을 수를 체크합니다.</li>
         <li>이미 결판난 국면의 수는 빠집니다(이긴 판을 한 수로 뒤집은 수는 남음). 계정마다 300문제까지.</li>
       </ul>
